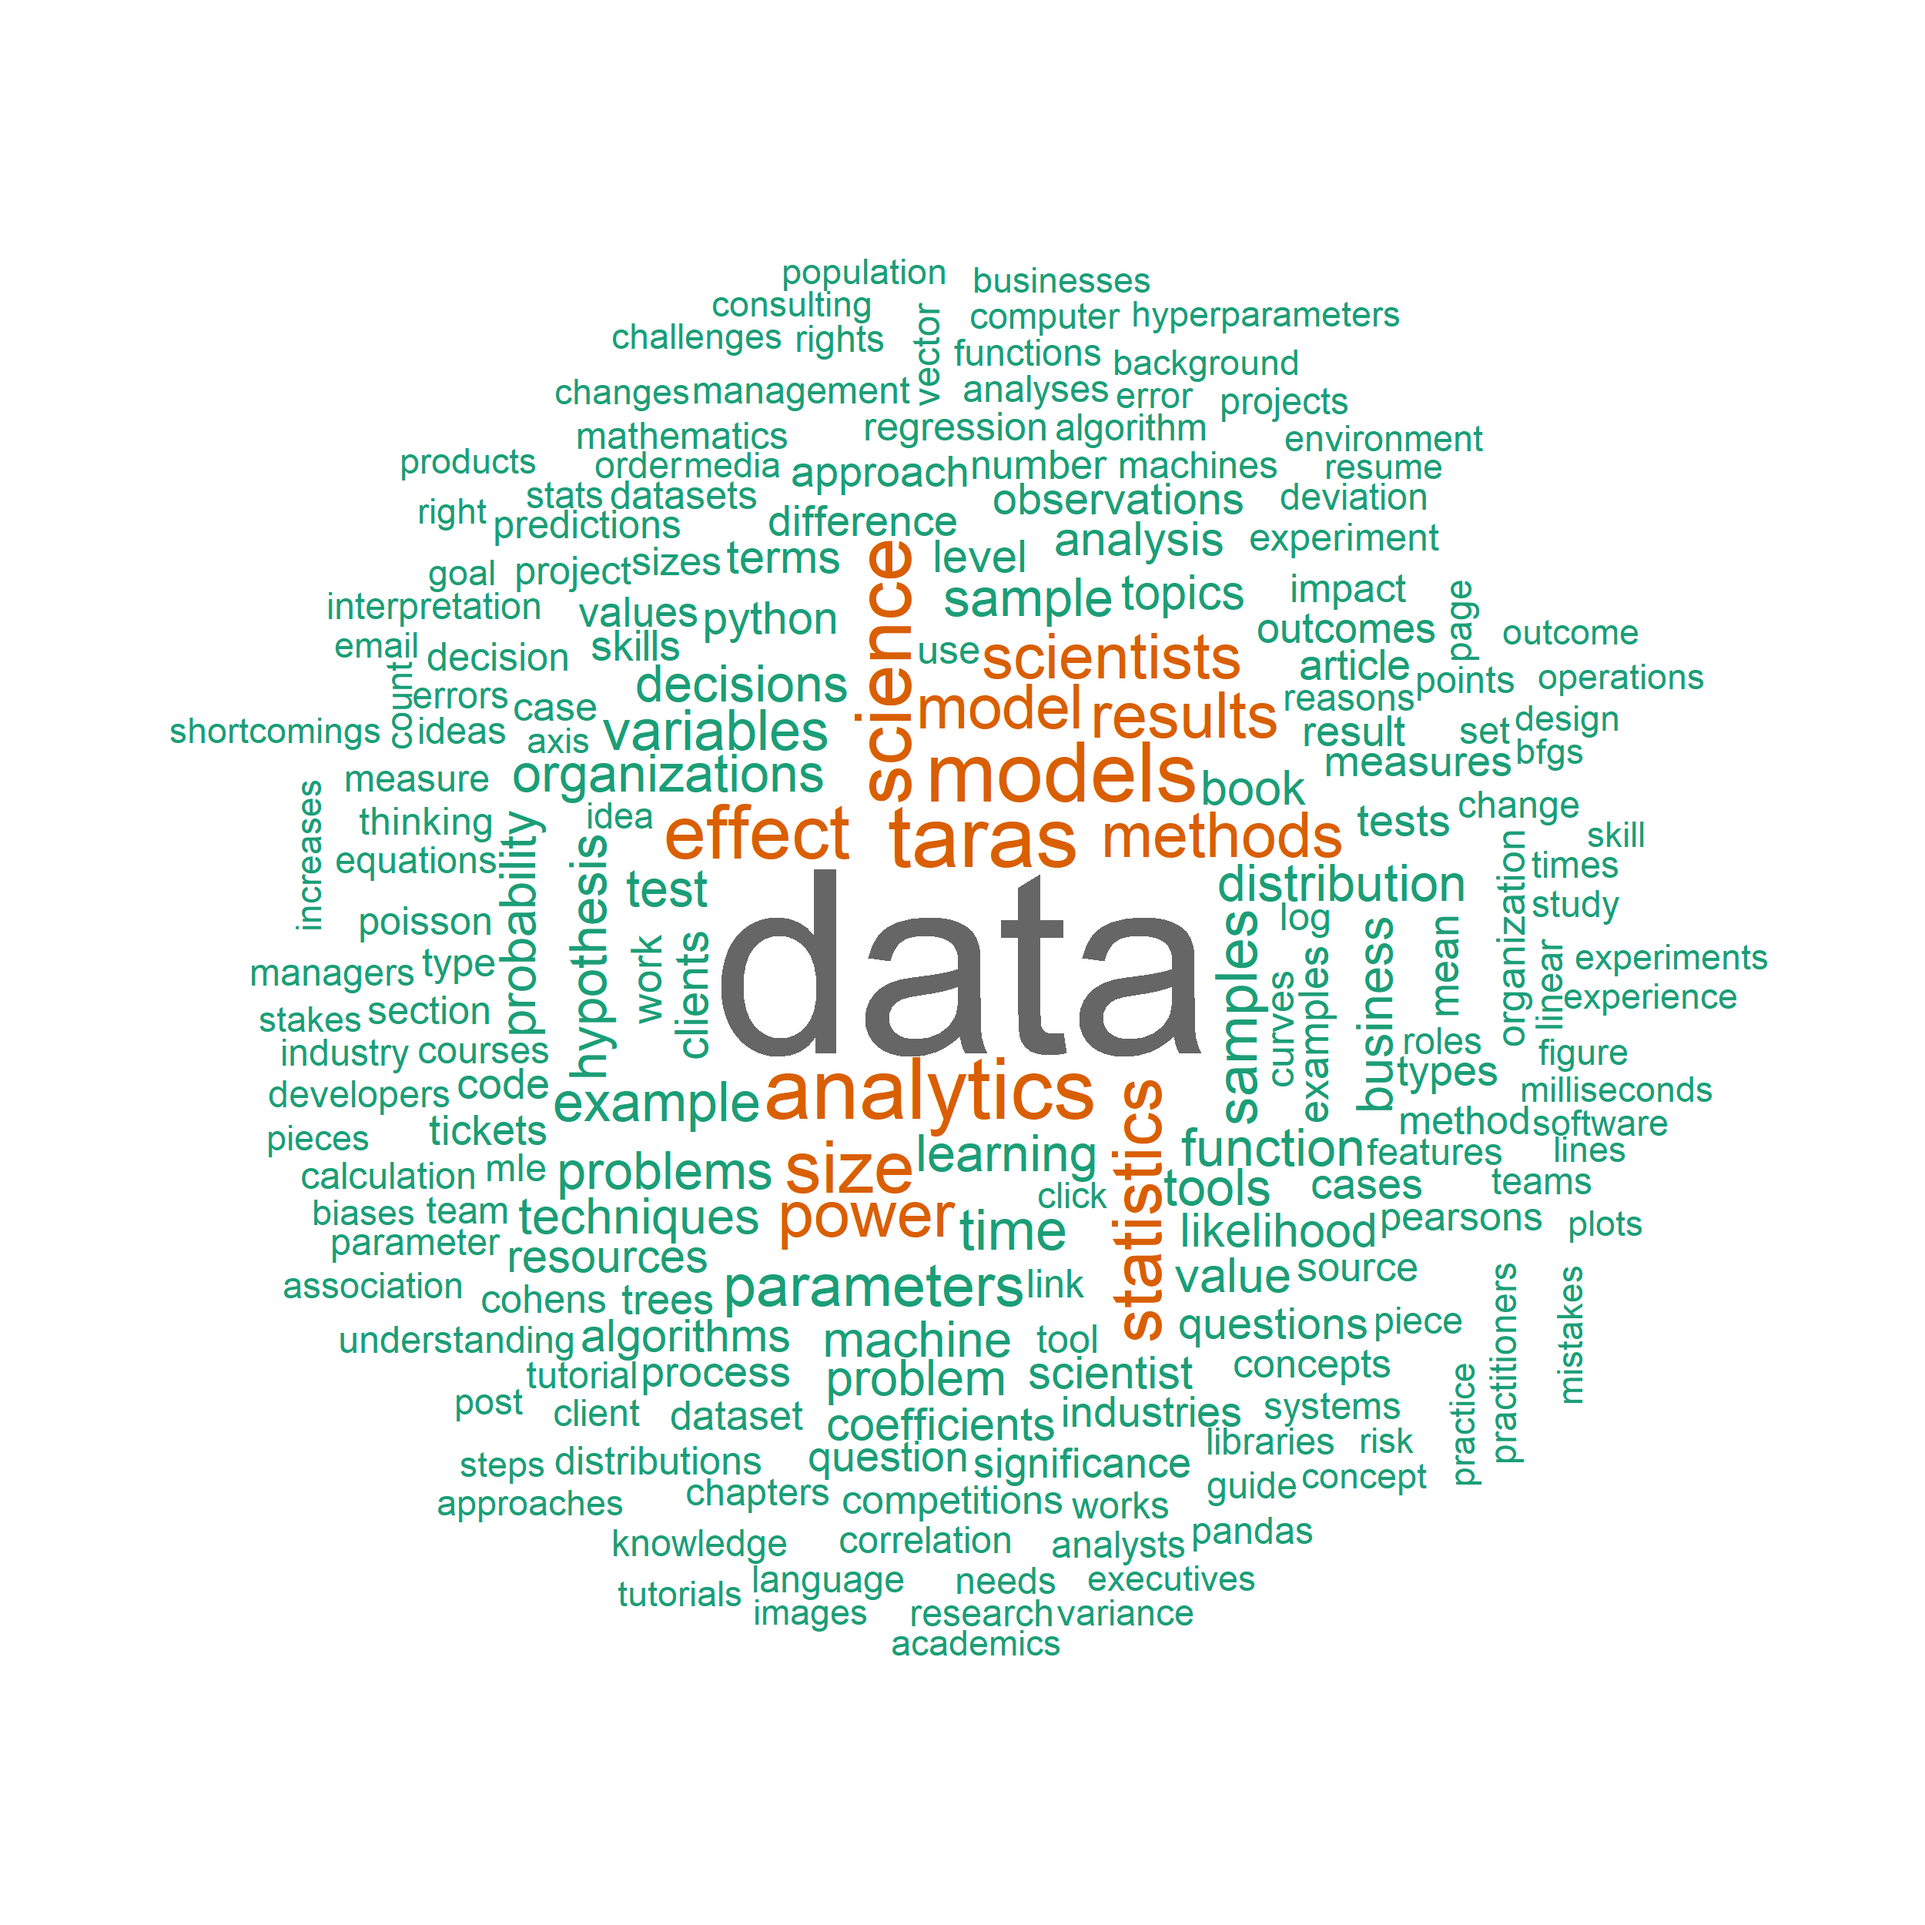
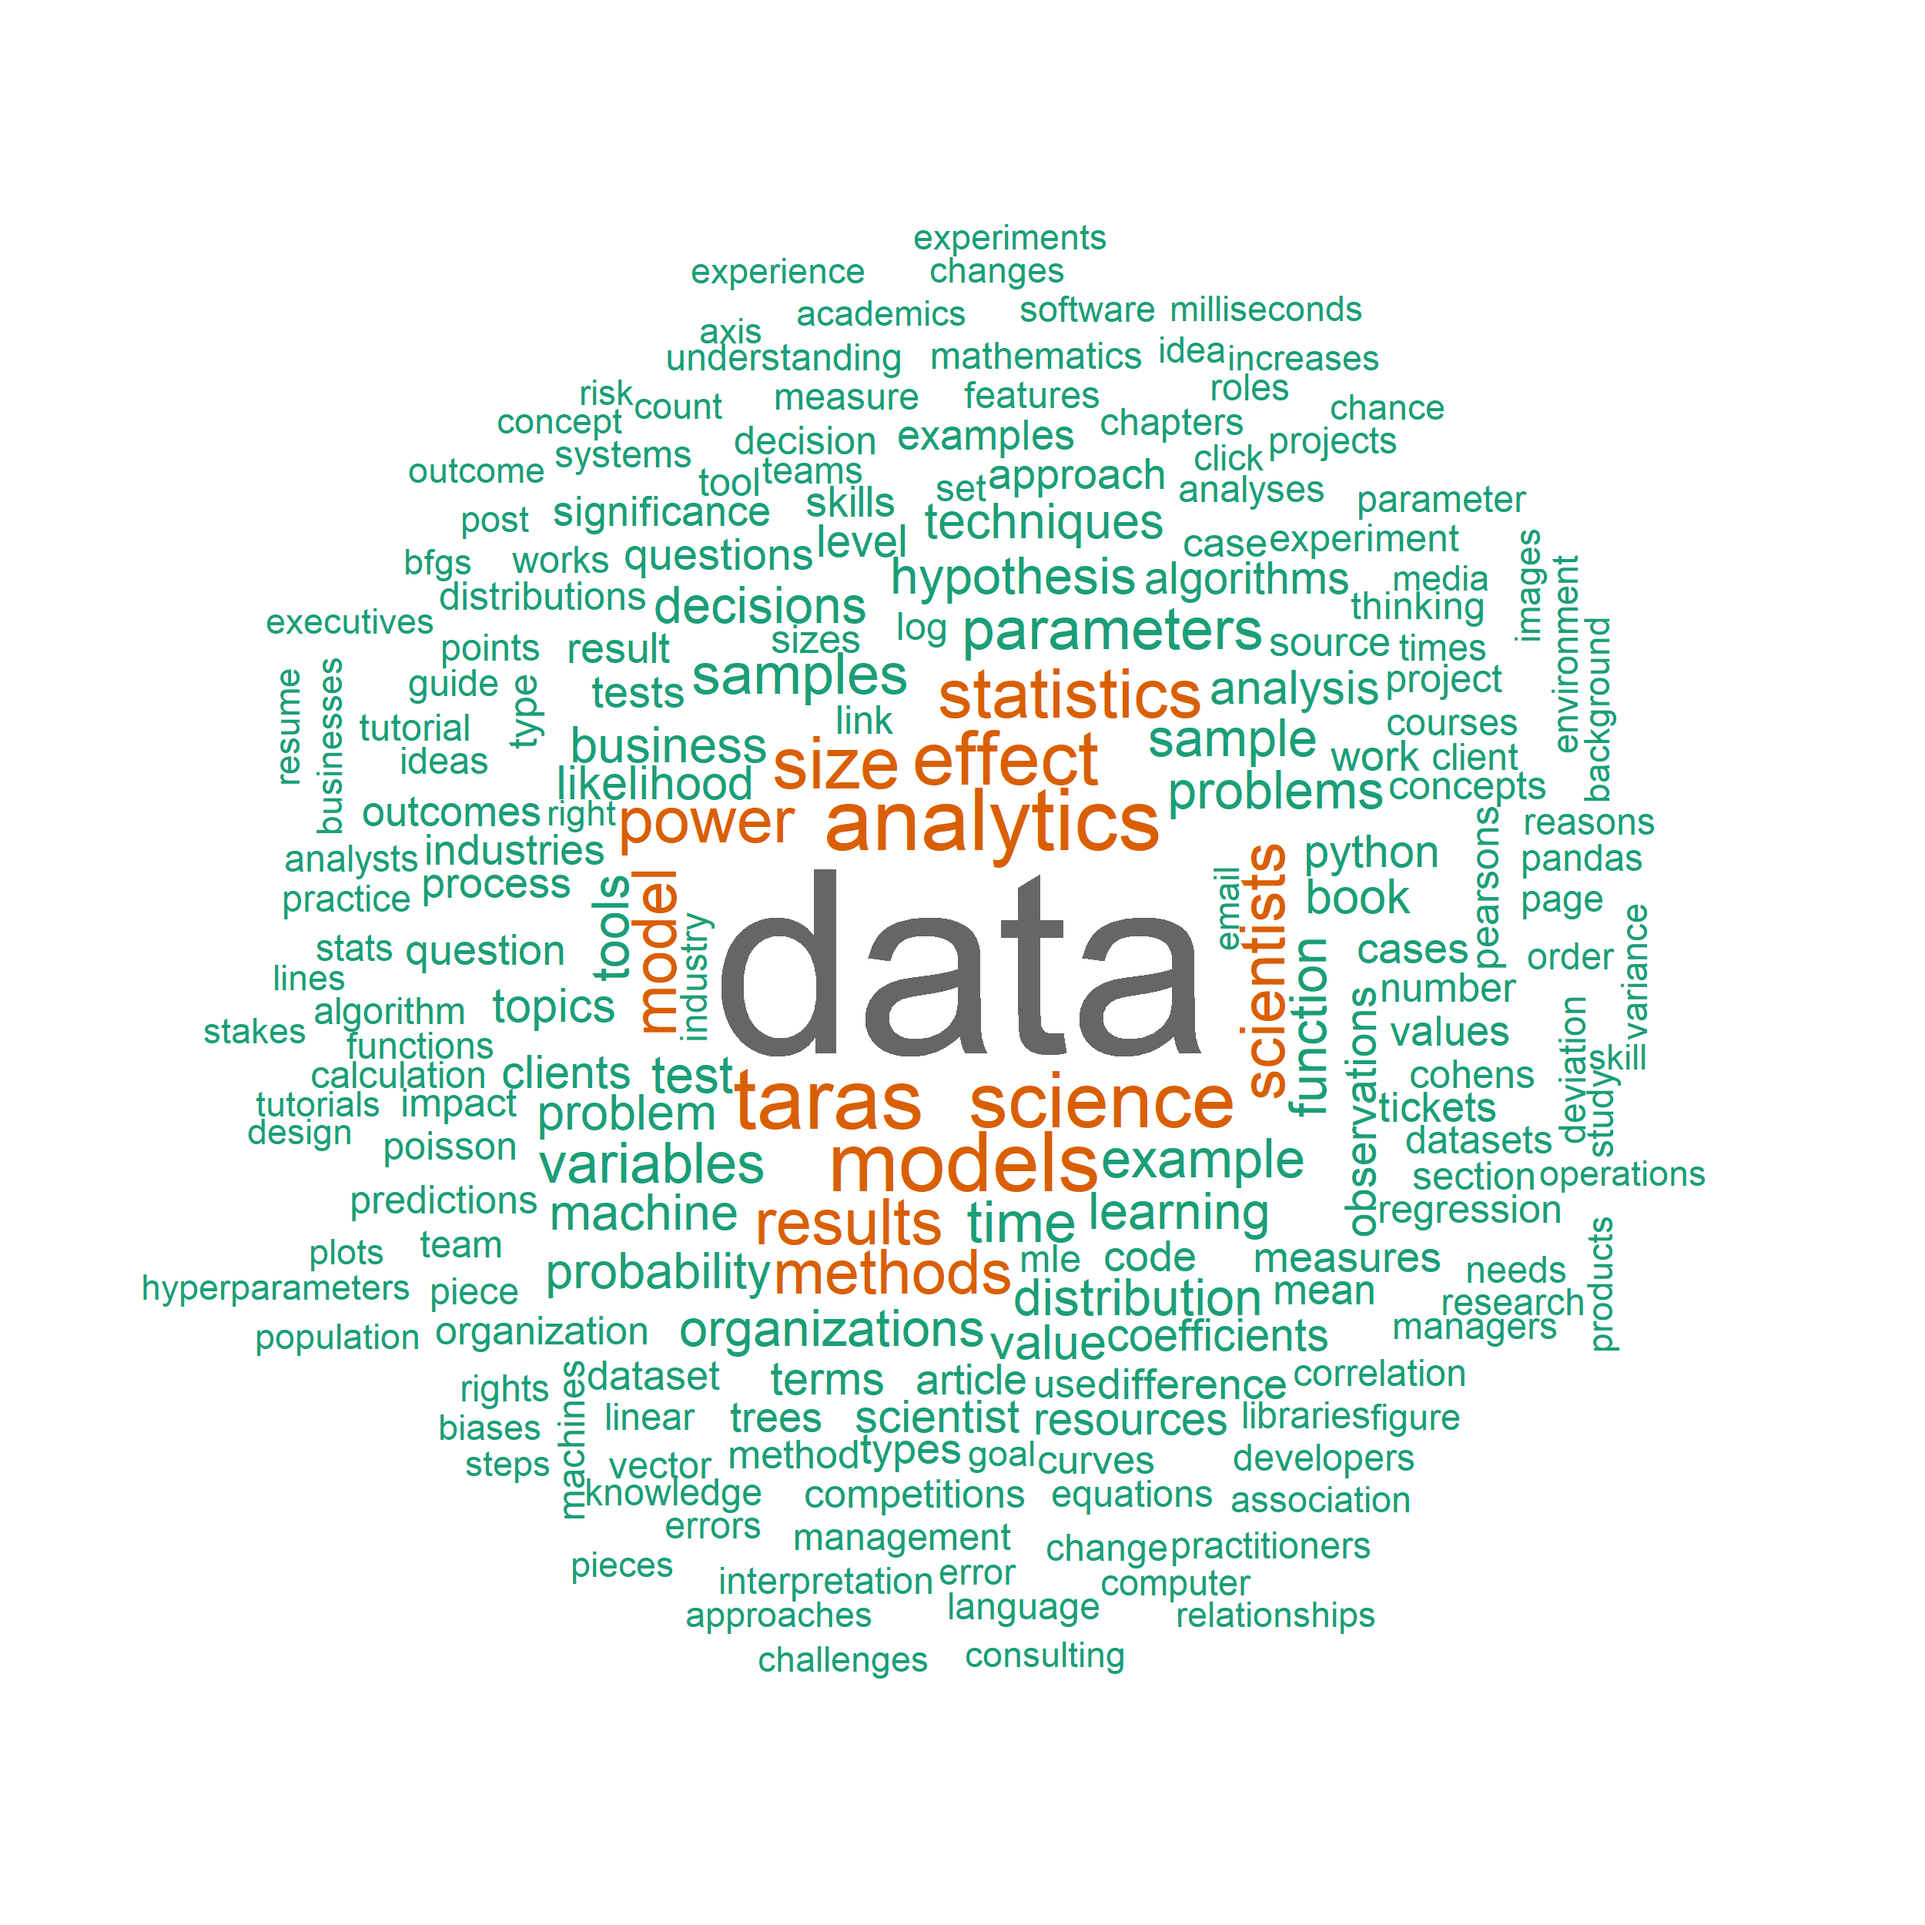
Hyunseo

Changed region(s): [[0.0624, 0.1248, 0.9048, 0.8736]]

diff --git a/data/newsletter/input/html/vidhya_out.html b/data/newsletter/input/html/vidhya_out.html
@@ -1,2 +1,2 @@
 <ul><li><a href="https://www.analyticsvidhya.com/blog/2018/07/introductory-guide-maximum-likelihood-estimation-case-study-r/">An Introductory Guide to Maximum Likelihood Estimation (with a case study in R)</a></li></ul><p style = "margin-left: 0 px">Keyword(freq): data(52), distribution(33), parameters(30), model(22), likelihood(21), coefficients(20), function(19), tickets(16), variables(14), distributions(12)</p>
-<ul><li><a href="https://www.analyticsvidhya.com/blog/2018/07/13-common-mistakes-aspiring-fresher-data-scientists-make-how-to-avoid-them/">13 Common Mistakes Amateur Data Scientists Make and How to Avoid Them?</a></li></ul><p style = "margin-left: 0 px">Keyword(freq): data(101), scientists(26), science(24), scientist(15), tools(14), model(13), article(12), competitions(12), problem(12), techniques(12)</p>
+<ul><li><a href="https://www.analyticsvidhya.com/blog/2018/07/13-common-mistakes-aspiring-fresher-data-scientists-make-how-to-avoid-them/">13 Common Mistakes Amateur Data Scientists Make and How to Avoid Them?</a></li></ul><p style = "margin-left: 0 px">Keyword(freq): data(105), scientists(26), science(24), scientist(15), tools(14), model(13), article(12), competitions(12), problem(12), techniques(12)</p>

diff --git a/_posts/2018/2018-07-17-newsletter.md b/_posts/2018/2018-07-17-newsletter.md
@@ -39,7 +39,7 @@ no-post-nav: true
 <br>Keyword(freq): data(52), distribution(33), parameters(30), model(22), likelihood(21), coefficients(20), function(19), tickets(16), variables(14), distributions(12)
 
 * [13 Common Mistakes Amateur Data Scientists Make and How to Avoid Them?](https://www.analyticsvidhya.com/blog/2018/07/13-common-mistakes-aspiring-fresher-data-scientists-make-how-to-avoid-them/)
-<br>Keyword(freq): data(101), scientists(26), science(24), scientist(15), tools(14), model(13), article(12), competitions(12), problem(12), techniques(12)
+<br>Keyword(freq): data(105), scientists(26), science(24), scientist(15), tools(14), model(13), article(12), competitions(12), problem(12), techniques(12)
 
 <br>
 
@@ -53,4 +53,6 @@ no-post-nav: true
 
 * [A Gentle Introduction to Effect Size Measures in Python](https://machinelearningmastery.com/effect-size-measures-in-python/)
 <br>Keyword(freq): effect(51), size(41), results(24), samples(24), methods(22), measures(18), variables(16), difference(12), pearsons(12), result(11)
+
+
 
